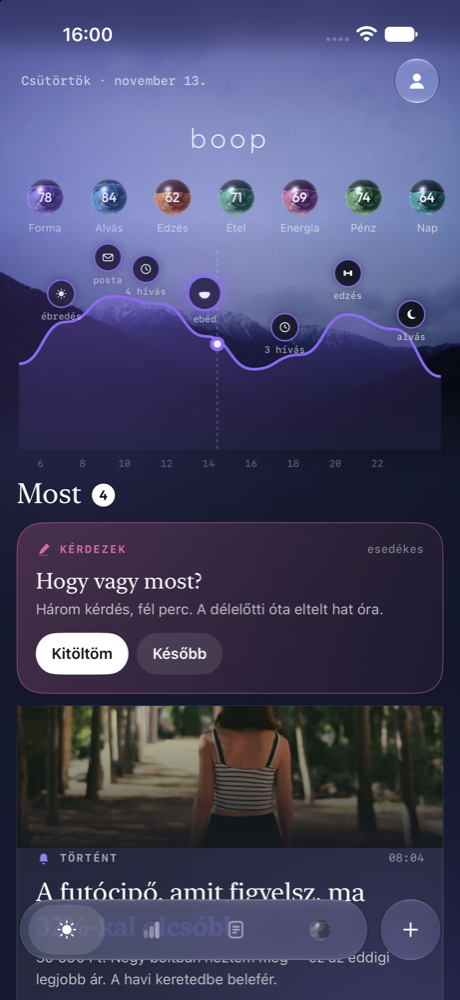
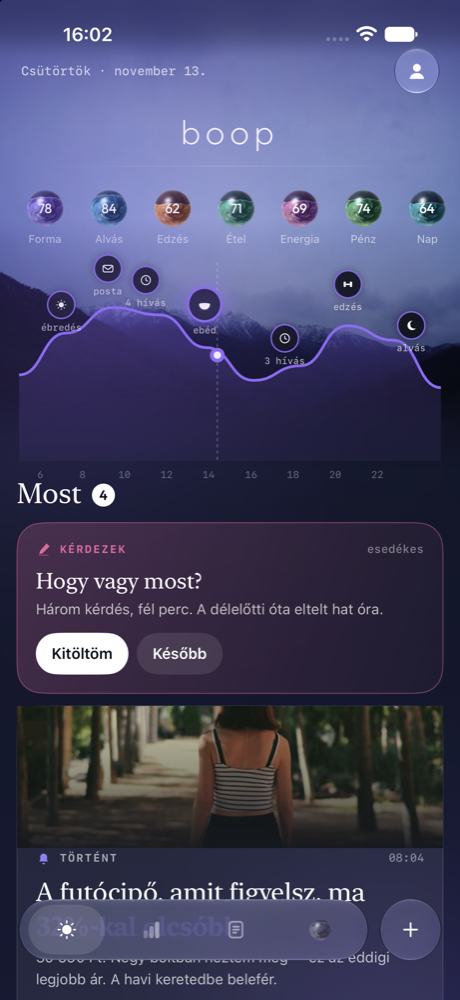
docs(boop-life): bigger boop wordmark with a faint rule under it (mezo-r36n9.33)

diff --git a/docs/design_2.0/prototypes/boop-ios-spike/BoopSpike/EletMa.swift b/docs/design_2.0/prototypes/boop-ios-spike/BoopSpike/EletMa.swift
@@ -183,9 +183,16 @@ struct EletMa: View {
                 }
                 .padding(.horizontal, 20).padding(.top, 56)
 
-                Text("boop").font(.custom("Outfit", size: 27).weight(.light)).tracking(3.5)
-                    .foregroundStyle(.white)
-                    .padding(.top, 16)
+                VStack(spacing: 12) {
+                    Text("boop").font(.custom("Outfit", size: 33).weight(.light)).tracking(4.5)
+                        .foregroundStyle(.white)
+                    Rectangle()
+                        .fill(LinearGradient(colors: [.white.opacity(0), .white.opacity(0.22), .white.opacity(0)],
+                                             startPoint: .leading, endPoint: .trailing))
+                        .frame(height: 0.8)
+                        .padding(.horizontal, 44)
+                }
+                .padding(.top, 16)
 
                 orbRibbon.padding(.top, 22)
 
